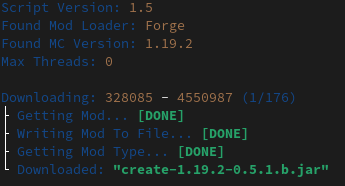
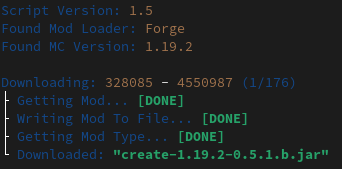
fixing stuff

diff --git a/CSDownloader.py b/CSDownloader.py
@@ -136,9 +136,8 @@ def main(): # Main Script Function
 			# Logging
 			print(f"{colors.blue}Script Version: {colors.yellow}{Sversion}{colors.reset}")
 			print(f"{colors.blue}Found Mod Loader: {colors.yellow}{loader.capitalize()}{colors.reset}")
-			print(f"{colors.blue}Found MC Version: {colors.yellow}{Mversion}{colors.reset}")
-			print(f"{colors.blue}Max Threads: {colors.yellow}{maxThreadN}{colors.reset}\n")
-
+			if maxThreadN != 0: print(f"{colors.blue}Found MC Version: {colors.yellow}{Mversion}{colors.reset}");  print(f"{colors.blue}Max Threads: {colors.yellow}{maxThreadN}{colors.reset}\n")
+			else: print(f"{colors.blue}Found MC Version: {colors.yellow}{Mversion}{colors.reset}\n")
 			# Iterates Through Each Mod
 			# If maxThreadN Is Something Other Than Zero, Threaded Mode Is Ran
 			for entry in Mdata["files"]:
